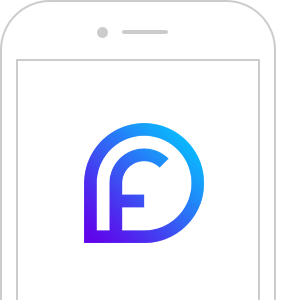
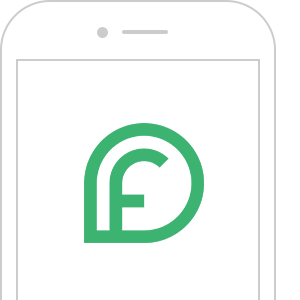
fix

Changed region(s): [[0.27, 0.39, 0.69, 0.81]]

diff --git a/flex/index.html b/flex/index.html
@@ -145,32 +145,40 @@
           </div>
         </div>
       </div>
-      <div class="col-xs-12 col-sm-12 col-md-12 col-lg-12 line gray2"></div>
+      <div class="col-xs-12 col-sm-12 col-md-12 col-lg-12 line lightgray2"></div>
       <div class="col-xs-12 col-sm-12 col-md-12 col-lg-12 top bottom">
         <div class="row center-xs center-sm center-md center-lg">
           <div class="col-xs-12 col-sm-11 col-md-10 col-lg-10">
             <div class="row start-xs start-sm start-md start-lg">
-              <div class="col-xs-12 col-sm-12 col-md-12 col-lg-4 bottom">
+              <div class="col-xs-12 col-sm-12 col-md-12 col-lg-3 bottom">
                 <div class="row center-xs center-sm center-md center-lg bottom-small">
-                  <div class="col-xs-12 col-sm-12 col-md-9 top bottom">
-                    <div class="box top"><h4>120 руб.</h4></div>
-                    <div class="box top">Бонус за заправку по топливной карте Ека или Лукойл</div>
+                  <div class="col-xs-12 col-sm-12 col-md-12 col-lg-10 top bottom">
+                    <div class="box top bottom"><img src="fuel2.png"></div>
+                    <div class="box top">Бонус <B>15 минут</b> за заправку по топливной карте Ека или Лукойл</div>
                   </div>
                 </div>
               </div>
-              <div class="col-xs-12 col-sm-12 col-md-12 col-lg-4 bottom">
+              <div class="col-xs-12 col-sm-12 col-md-12 col-lg-3 bottom">
                 <div class="row center-xs center-sm center-md center-lg bottom-small">
-                  <div class="col-xs-12 col-sm-12 col-md-9 top bottom">
-                    <div class="box top"><h4>5 минут</h4></div>
-                    <div class="box top">На осмотр автомобиля вначале аренды</div>
+                  <div class="col-xs-12 col-sm-12 col-md-12 col-lg-10 top bottom">
+                    <div class="box top bottom"><img src="wash.png"></div>
+                    <div class="box top">Бесплатные муниципальные <B>парковки</b>, и в некоторых Торговых Центрах</div>
                   </div>
                 </div>
               </div>
-              <div class="col-xs-12 col-sm-12 col-md-12 col-lg-4 bottom">
+              <div class="col-xs-12 col-sm-12 col-md-12 col-lg-3 bottom">
                 <div class="row center-xs center-sm center-md center-lg bottom-small">
-                  <div class="col-xs-12 col-sm-12 col-md-12 col-lg-11 round white top bottom">
-                    <div class="box top"><h4>МКАД</h4></div>
-                    <div class="box top">Зона завершения аренды в пределах МКАД</div>
+                  <div class="col-xs-12 col-sm-12 col-md-12 col-lg-10 top bottom">
+                    <div class="box top bottom"><img src="wash.png"></div>
+                    <div class="box top">Автомобиль застрахован. Оплата не более <b>20%</b> от стоимости ущерба</div>
+                  </div>
+                </div>
+              </div>
+              <div class="col-xs-12 col-sm-12 col-md-12 col-lg-3 bottom">
+                <div class="row center-xs center-sm center-md center-lg bottom-small">
+                  <div class="col-xs-12 col-sm-12 col-md-12 col-lg-10 top bottom">
+                    <div class="box top bottom"><img src="wash.png"></div>
+                    <div class="box top">Автомойка, ТО, Подготовка к зимнему периоду мы <b>берем на себя</b></div>
                   </div>
                 </div>
               </div>
@@ -179,15 +187,15 @@
         </div>
       </div>
 
-      <div class="col-xs-12 col-sm-12 col-md-12 col-lg-12 lightgray">
-        <div class="row center-xs center-sm center-md center-lg top-small bottom-small">
+      <div class="col-xs-12 col-sm-12 col-md-12 col-lg-12 ">
+        <div class="row center-xs center-sm center-md center-lg top-small bottom-small bgg4">
           <div class="col-xs-12 col-sm-12 col-md-12 col-lg-10 top bottom" align="left">
-            Cвободных машин 29 из 100
+            Карта автомобилей <button id="free"><i class="fa fa-map-marker pin" aria-hidden="true" ></i> Cвободно 29 из 100</button>
           </div>
         </div>
         <div class="row center-xs center-sm center-md center-lg">
           <div class="col-xs-12 col-sm-12 col-md-12 col-lg-12" id="no">
-            <script type="text/javascript" charset="utf-8" async src="https://api-maps.yandex.ru/services/constructor/1.0/js/?um=constructor%3A512b28df880d4da4602cad25c35c343082ab52fe8d3ec6541aa73072f94536c3&amp;width=100%25&amp;height=450&amp;lang=ru_RU&amp;scroll=false"></script>
+            <script type="text/javascript" charset="utf-8" async src="https://api-maps.yandex.ru/services/constructor/1.0/js/?um=constructor%3A512b28df880d4da4602cad25c35c343082ab52fe8d3ec6541aa73072f94536c3&amp;width=100%25&amp;height=500&amp;lang=ru_RU&amp;scroll=false"></script>
           </div>
         </div>
       </div>
@@ -227,12 +235,13 @@
           </div>
         </div>
       </div>
-      <div class="col-xs-12 col-sm-12 col-md-12 col-lg-12  bgg ">
-        <div class="row center-xs center-sm center-md center-lg top-big bottom-big bg2">
-          <div class="col-xs-12 col-sm-11 col-md-10 col-lg-10">
+      <div class="col-xs-12 col-sm-12 col-md-12 col-lg-12  bgg3">
+        <div class="row center-xs center-sm center-md center-lg bottom-big bg2">
+          <div class="col-xs-12 col-sm-11 col-md-10 col-lg-10 bottom-small">
             <div class="row center-xs center-sm center-md center-lg">
               <div class="col-xs-12 col-sm-11 col-md-10 col-lg-6">
                 <div class="box top bottom" id="button-big"><h4>Регистрация</h4></div>
+                <div class="box top bottom">Потребуется только паспорт, права и 5 минут.</div>
               </div>
             </div>
           </div>

diff --git a/flex/styles.css b/flex/styles.css
@@ -144,10 +144,25 @@ a.solid:link, a.solid:visited, a.solid:active {
 #no {
   padding: 0;
   margin: 0;
-  height: 450px;
-  background-color: #f5f5f5;
+  height: 500px;
+  background-color: #eee;
 }
 
+.pin {color:MediumSeaGreen;}
+#free {
+  font-family: 'Arial', sans-serif;
+  font-weight: normal;
+  font-size: 1em;
+  color: #000;
+  padding: .5em 1.25em;
+  background-color: transparent;
+  border: 2px solid MediumSeaGreen;
+  transition: .1s;
+  border-radius: 5em;
+  cursor: auto;
+  margin-left: 1em;
+  -box-shadow: 0 .25em .5em 0 rgba(0,0,0,.1);
+}
 #buy {
   font-family: 'Arial', sans-serif;
   font-weight: normal;
@@ -201,31 +216,34 @@ a.solid:link, a.solid:visited, a.solid:active {
 .shadow {box-shadow: 0 .5em 1em 0 rgba(0,0,0,.15);}
 .shadow-inset {box-shadow: inset 0 .5em 1em 0 rgba(0,0,0,.15);}
 .screen {min-height: 100vh;}
-.bgg {  background: linear-gradient(to top left, #6200EA, #00ccff);} /*0033cc*/
+.bgg2 {  background: linear-gradient(to top left, #6200EA, #00ccff);}
+.bgg {  background: MediumSeaGreen;}
+.bgg4 {  background: linear-gradient(to top, #eee, #fbfbfb);}
+
+
 .side {
-  border-left: 1px solid #eee;
-  border-right: 1px solid #eee;
+  border-left: 1px solid #e5e5e5;
+  border-right: 1px solid #e5e5e5;
 }
 #button-big {
-  background-color: #fff;
+  background-color: MediumSeaGreen;
   border-radius: 5em;
   box-shadow: 0 .25em .5em 0 rgba(0,0,0,.15);
   cursor: pointer;
+  color:white;
 }
 #button-big:hover {
-  box-shadow: 0 .25em .5em 0 rgba(0,0,0,.3);
+  box-shadow: 0 .25em .5em 0 rgba(0,0,0,.25);
 }
 
-.color, .color-hover:hover  {background-color:#6200EA ;}
-#color, #color-hover:hover  {color:           #6200EA ;}
-.color2, .color2-hover:hover  {background-color:#304FFE ;}
-#color2, #color2-hover:hover  {color:           #304FFE ;}
+.color, .color-hover:hover  {background-color:MediumSeaGreen  ;}
+#color, #color-hover:hover  {color:           MediumSeaGreen  ;}
 .gray, .gray-hover:hover    {background-color:#aaa;}
 #gray, #gray-hover:hover    {color:           #aaa;}
-.lightgray, .lightgray-hover:hover  {background-color:#f5f5f5;}
-#lightgray, #lightgray-hover:hover  {color:           #f5f5f5;}
-.gray2, .gray2-hover:hover  {background-color:#eee;}
-#gray2, #gray2-hover:hover  {color:           #eee;}
+.lightgray, .lightgray-hover:hover  {background-color:#eee;}
+#lightgray, #lightgray-hover:hover  {color:           #eee;}
+.lightgray2, .lightgray2-hover:hover  {background-color:#e5e5e5;}
+#lightgray2, #lightgray2-hover:hover  {color:           #e5e5e5;}
 .dark, .dark-hover:hover    {background-color:#1e2128;}
 #dark, #dark-hover:hover    {color:           #1e2128;}
 .black, .black-hover:hover  {background-color:rgba(0,0,0,1);}
